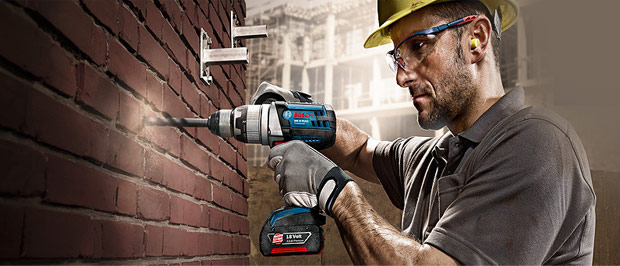
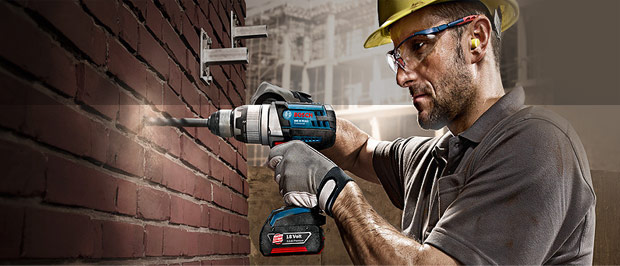
decoration styles of slider added

Changed region(s): [[0.1839, 0.0, 0.6742, 0.4211], [0.7968, 0.0, 1.0, 0.4211]]

diff --git a/app/css/main.css b/app/css/main.css
@@ -1,8 +1,8 @@
-.center-container:before, .navbar-container:before, .catalog-preview-header:before, .center-container:after, .navbar-container:after, .catalog-preview-header:after {
+.center-container:before, .navbar-container:before, .offer-preview:before, .catalog-preview-header:before, .center-container:after, .navbar-container:after, .offer-preview:after, .catalog-preview-header:after {
   content: " ";
   display: table;
 }
-.center-container:after, .navbar-container:after, .catalog-preview-header:after {
+.center-container:after, .navbar-container:after, .offer-preview:after, .catalog-preview-header:after {
   clear: both;
 }
 
@@ -635,6 +635,7 @@ body {
 
 .offer-item {
   position: relative;
+  float: left;
   width: 300px;
   margin-right: 20px;
   margin-bottom: 20px;
@@ -646,6 +647,9 @@ body {
   display: block;
   background-image: url("/img/spritesheet.png");
   background-repeat: no-repeat;
+}
+.offer-item:nth-child(3n) {
+  margin-right: 0;
 }
 
 .offer-item-new:before {
@@ -659,6 +663,129 @@ body {
   width: 60px;
   height: 59px;
   background-position: -5px -276px;
+}
+
+.slider {
+  position: relative;
+  width: 620px;
+  padding: 0;
+  background: #f6b22d;
+}
+.slider input[type=radio] {
+  display: none;
+}
+
+.slide {
+  display: none;
+  min-height: 266px;
+  padding: 22px;
+}
+
+#slide-perforators:checked ~ .slide-perforators,
+#slide-drills:checked ~ .slide-drills {
+  display: block;
+}
+
+.slider-nav {
+  position: absolute;
+  top: 50%;
+  left: 0;
+  width: 100%;
+  height: 40px;
+  margin-top: -20px;
+}
+
+.slide-prev,
+.slide-next {
+  position: absolute;
+  top: 50%;
+  display: block;
+  width: 22px;
+  height: 40px;
+  margin-top: -20px;
+  background-image: url("/img/spritesheet.png");
+  background-repeat: no-repeat;
+}
+.slide-prev:hover,
+.slide-next:hover {
+  cursor: pointer;
+}
+
+.slide-prev {
+  left: 20px;
+  background-position: -473px -5px;
+}
+
+.slide-next {
+  right: 20px;
+  background-position: -119px -32px;
+}
+
+.slider-indicators {
+  position: absolute;
+  bottom: 35px;
+  left: 50%;
+  width: 100px;
+  height: 12px;
+  margin-left: -50px;
+  font-size: 0;
+  text-align: center;
+  z-index: 1000;
+}
+
+.slider-indicator {
+  display: inline-block;
+  vertical-align: top;
+  width: 10px;
+  height: 10px;
+  margin-right: 10px;
+  background: #fff;
+  border: 2px solid #fff;
+  border-radius: 50%;
+  cursor: pointer;
+}
+.slider-indicator:last-child {
+  margin-right: 0;
+}
+
+#slide-perforators:checked ~ .slider-indicators label[for="slide-perforators"],
+#slide-drills:checked ~ .slider-indicators label[for="slide-drills"] {
+  background: #ee3643;
+}
+
+.slide-perforators {
+  background: url("/pic/perforators.jpg") no-repeat;
+}
+
+.slide-drills {
+  background: url("/pic/drills.jpg") no-repeat;
+}
+
+.slide-title {
+  margin: 0 0 10px;
+  font-family: "Cuprum Bold", Arial, sans-serif;
+  font-size: 36px;
+  line-height: 1;
+  color: #fff;
+  text-transform: uppercase;
+}
+
+.slide-text {
+  margin: 0 0 114px;
+  font-family: "PT Sans", Arial, sans-serif;
+  font-size: 18px;
+  line-height: 24px;
+  color: #fff;
+}
+
+.slide-link {
+  min-width: 195px;
+}
+
+.offer-item-discount,
+.offer-item-delivery {
+  float: right;
+  margin-right: 0;
 }
 
 .offer-item-materials {

diff --git a/app/scss/offer-preview.scss b/app/scss/offer-preview.scss
@@ -1,10 +1,12 @@
 .offer-preview {
     margin-bottom: 55px;
     padding-top: 60px;
+    @extend %clearfix;
 }
 
 .offer-item {
     position: relative;
+    float: left;
     width: 300px;
     margin-right: 20px;
     margin-bottom: 20px;
@@ -16,7 +18,11 @@
         background-image: url($path-spritesheet);
         background-repeat: no-repeat;
     }
+    &:nth-child(3n) {
+        margin-right: 0;
+    }
 }
+
 .offer-item-new {
     &:before {
         content: " ";
@@ -31,6 +37,124 @@
         background-position: -5px -276px;
     }
 }
+
+//Slider
+.slider {
+    position: relative;
+    width: 620px;
+    padding: 0;
+    background: #f6b22d;
+    input[type=radio] {
+        display: none;
+    }
+}
+
+.slide {
+    display: none;
+    min-height: 266px;
+    padding: 22px;
+}
+
+#slide-perforators:checked ~ .slide-perforators,
+#slide-drills:checked ~ .slide-drills {
+    display: block;
+}
+
+.slider-nav {
+    position: absolute;
+    top: 50%;
+    left: 0;
+    width: 100%;
+    height: 40px;
+    margin-top: -20px;
+}
+.slide-prev,
+.slide-next {
+    position: absolute;
+    top: 50%;
+    
+    display: block;
+    width: 22px;
+    height: 40px;
+    margin-top: -20px;
+    background-image: url($path-spritesheet);
+    background-repeat: no-repeat;
+    &:hover {
+        cursor: pointer;
+    }
+} 
+.slide-prev {
+    left: 20px;
+    background-position: -473px -5px;
+}
+.slide-next {
+    right: 20px;
+    background-position: -119px -32px;
+}
+
+.slider-indicators {
+    position: absolute;
+    bottom: 35px;
+    left: 50%;
+    width: 100px;
+    height: 12px;
+    margin-left: -50px;
+    font-size: 0;
+    text-align: center;
+    z-index: 1000;
+}
+
+.slider-indicator {
+    display: inline-block;
+    vertical-align: top;
+    width: 10px;
+    height: 10px;
+    margin-right: 10px;
+    background: #fff;
+    border: 2px solid #fff;
+    border-radius: 50%;
+    cursor: pointer;
+    &:last-child {
+        margin-right: 0;
+    }
+}
+
+#slide-perforators:checked ~ .slider-indicators label[for="slide-perforators"],
+#slide-drills:checked ~ .slider-indicators label[for="slide-drills"] {
+    background: #ee3643;
+}
+.slide-perforators {
+    background: url("/pic/perforators.jpg") no-repeat;
+}
+.slide-drills {
+    background: url("/pic/drills.jpg") no-repeat;
+}
+.slide-title {
+    margin: 0 0 10px;
+    font-family: $font-family-cuprum-bold;
+    font-size: 36px;
+    line-height: 1;
+    color:#fff;
+    text-transform: uppercase;
+}
+.slide-text {
+    margin: 0 0 114px;
+    font-family: $font-family-ptsans;
+    font-size: 18px;
+    line-height: 24px;
+    color: #fff;
+}
+.slide-link {
+    min-width: 195px;
+}
+
+//
+.offer-item-discount,
+.offer-item-delivery {
+    float: right;
+    margin-right: 0;
+}
+
 .offer-item-materials {
     background: #f6b22d;
     &:after {

diff --git a/app/index.html b/app/index.html
@@ -66,19 +66,33 @@
                 <div class="offer-title">Техника</div>
                 <a href="#" class="offer-link">для стройки</a>
             </div>
+
             <div class="offer-item slider">
-                <div class="slider-links">
-                    <a href="#" class="slider-link slider-link-prev"></a>
-                    <a href="#" class="slider-link slider-link-next"></a>
+                <input type="radio" id="slide-perforators" name="toggle1" checked>
+                <input type="radio" id="slide-drills" name="toggle1">
+
+                <div class="slider-nav">
+                    <label for="slide-perforators" class="slide-prev"></label>
+                    <label for="slide-drills" class="slide-next"></label>
                 </div>
-                <div class="slider-item slider-item-perforators">
-                    <div class="slider-header">
-                        <div class="slider-title">Перфораторы</div>
-                        <p>Настоящие мужские игрушки</p>
-                    </div>
-                    <a href="#" class="btn btn-primary">Открыть каталог</a>
+
+                <div class="slider-indicators">
+                    <label for="slide-perforators" class="slider-indicator"></label>
+                    <label for="slide-drills" class="slider-indicator"></label>
+                </div>
+
+                <div class="slide slide-perforators">
+                    <div class="slide-title">Перфораторы</div>
+                    <p class="slide-text">Настоящие мужские игрушки</p>
+                    <a href="#" class="slide-link btn btn-primary">Открыть каталог</a>
+                </div>
+                <div class="slide slide-drills">
+                    <div class="slide-title">дрели</div>
+                    <p class="slide-text">Соседям на радость!</p>
+                    <a href="#" class="slide-link btn btn-primary">Открыть каталог</a>
                 </div>
             </div>
+
             <div class="offer-item offer-item-discount">
                 <div class="offer-title">Скидки 50%</div>
                 <a href="#" class="offer-link">на 350 товаров</a>
